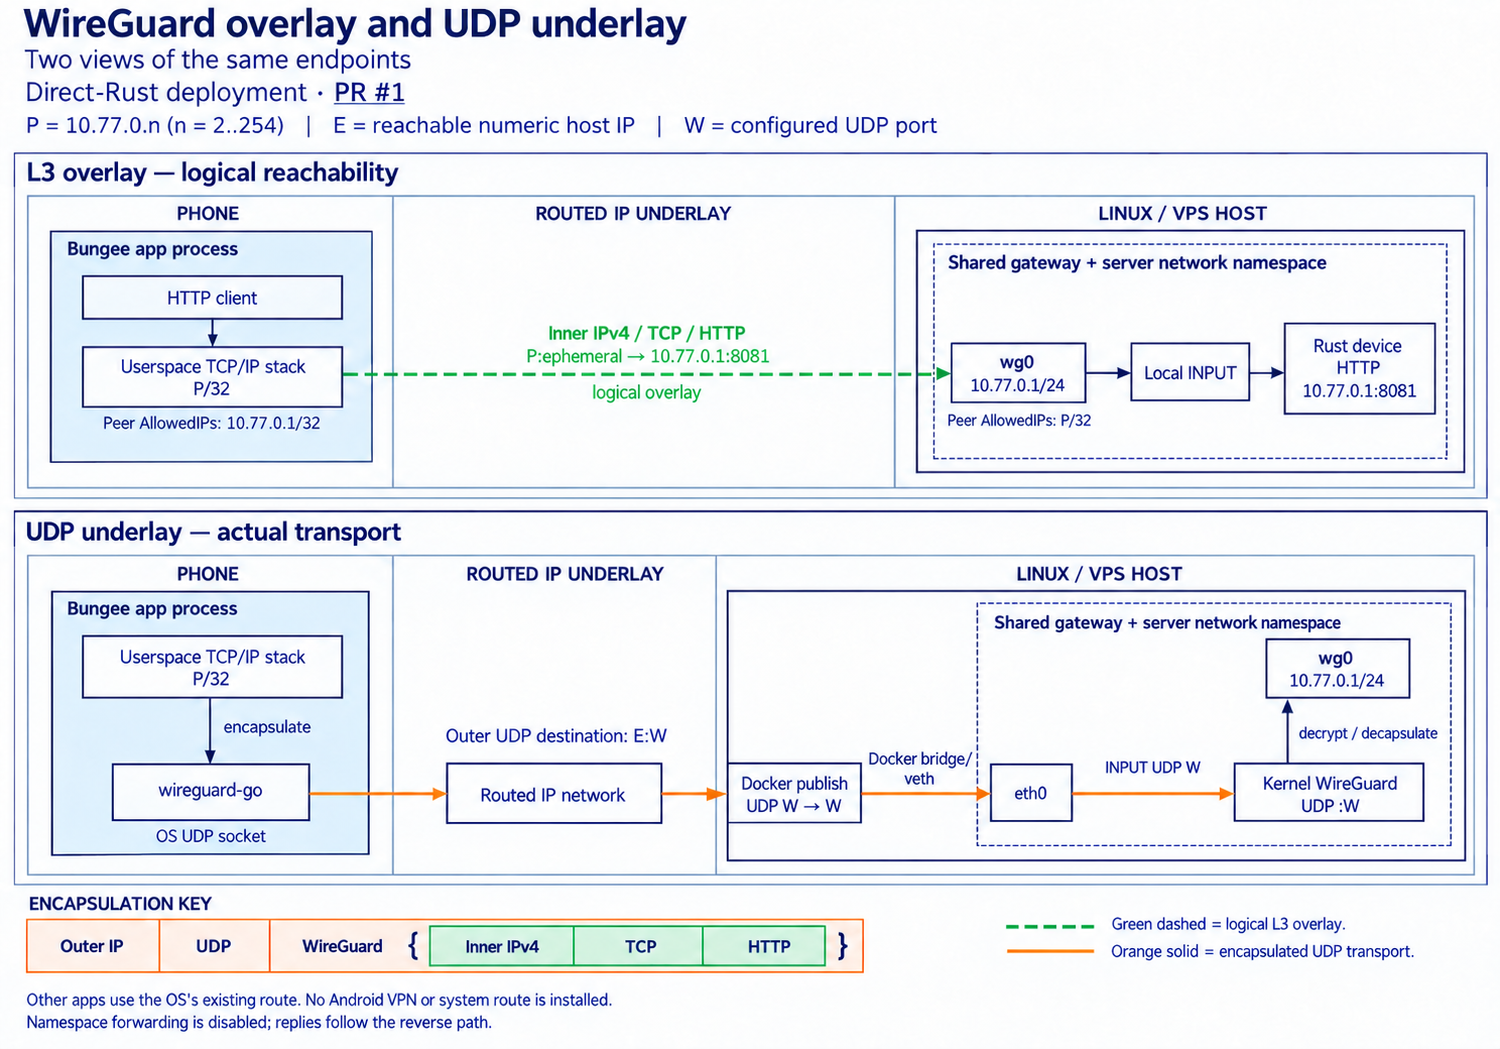
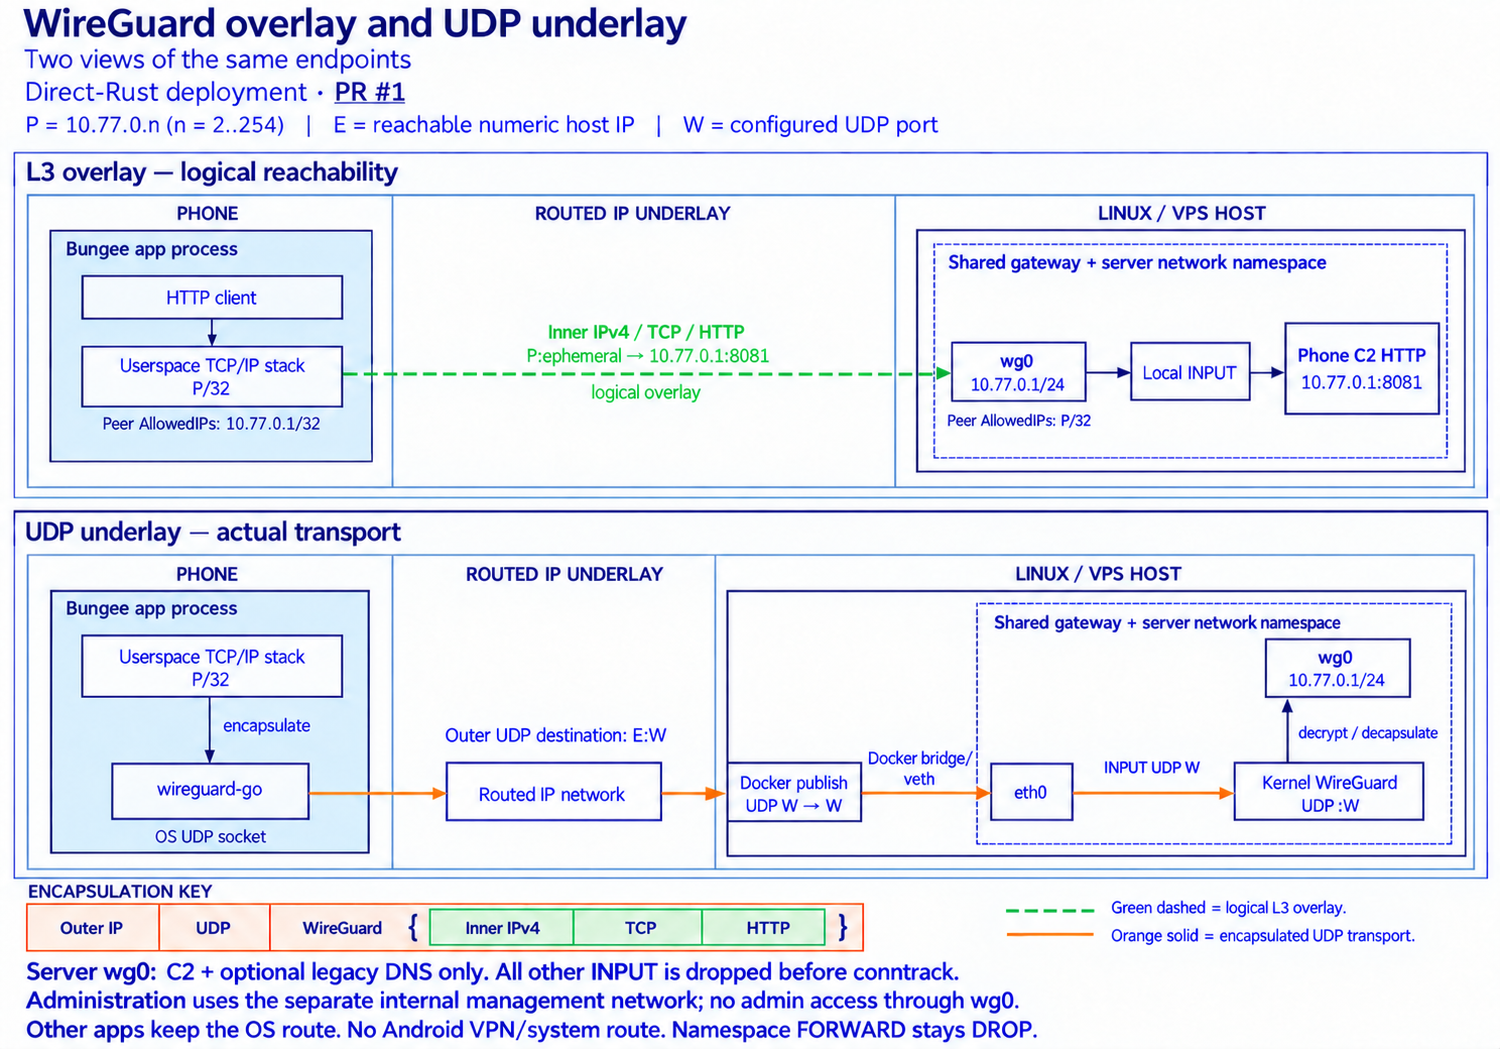
Show internal-only management and C2/DNS-only wg0 on live Security page

diff --git a/docs/NETWORK-TOPOLOGY.md b/docs/NETWORK-TOPOLOGY.md
@@ -1,8 +1,8 @@
 # Network topology and backend placement
 
-These notes describe the direct-Rust deployment implemented in [PR #1](https://github.com/argentumseven/bungee/pull/1), audited at commit [`17d6363`](https://github.com/argentumseven/bungee/commit/17d6363). They do not describe the released 1.1.4 Caddy deployment. The [Security page](SECURITY.md) contains the drawn topology pictures.
+These notes describe the direct-Rust deployment implemented in [PR #1](https://github.com/argentumseven/bungee/pull/1), audited at commit [`e5c6898`](https://github.com/argentumseven/bungee/commit/e5c68987784d985406832bc728c51e10c59760d9). They do not describe the released 1.1.4 Caddy deployment. The [Security page](SECURITY.md) contains the drawn topology pictures.
 
-The drawings use a directly reachable Linux/VPS host with Docker bridge networking and port publishing. An upstream home-router NAT, Docker IPv6 routing and userland-proxy variations are deployment-specific. They are not extra Bungee services. Bridge names and container addresses are allocated by Docker and are deliberately not invented in the drawings.
+The drawings use a Linux/VPS host with a reachable phone UDP endpoint, a separate internal management network, Docker bridge networking and port publishing. An upstream home-router NAT, Docker IPv6 routing and userland-proxy variations are deployment-specific. They are not extra Bungee services. Bridge names and container addresses are allocated by Docker and are deliberately not invented in the drawings.
 
 ## Address and port notation
 
@@ -11,7 +11,7 @@ The drawings use a directly reachable Linux/VPS host with Docker bridge networki
 | `P` | One phone's overlay address, `10.77.0.n`, where `n` is 2–254. The phone uses `P/32`. |
 | `E` | Numeric WireGuard endpoint IP reachable through the phone's existing OS network. In the drawn direct VPS deployment it is a host address. An operator's upstream NAT can make it differ from the local host address. |
 | `W` | Explicitly configured WireGuard UDP port. There is no default; 51820 is rejected. |
-| `B:H` | Configured host bind address and published HTTPS TCP port. The browser's exact HTTPS origin can use a hostname; it is independent of the phone's numeric WireGuard endpoint. |
+| `B:H` | Configured **internal management** host bind address and HTTPS TCP port; never a WAN publication. The browser's exact HTTPS origin can use a hostname; it is independent of the phone's numeric WireGuard endpoint. |
 | `C` | Dynamically assigned Docker-side address in the shared namespace. |
 | `R:D` | The single explicitly configured DNS resolver IP and port. The external-resolver path is drawn; the default resolver port is 53. |
 | `s`, `q` | Ephemeral source ports, not additional published ports. |
@@ -42,13 +42,29 @@ The gateway container's privileged manager installs firewall rules and configure
 
 | Service | Production bind | Backend function |
 | --- | --- | --- |
-| Administrator HTTPS | TCP `0.0.0.0:8443` | Rust terminates TLS 1.3 with X25519MLKEM768, serves the built React UI and `/api/*`, and enforces actual socket-source prefixes, sessions and exact-origin controls. |
+| Administrator HTTPS | TCP `0.0.0.0:8443`, **bound to interface `eth0`** | Rust terminates TLS 1.3 with X25519MLKEM768, serves the built React UI and `/api/*`, and enforces actual socket-source prefixes, sessions and exact-origin controls. |
 | Device HTTP | TCP `10.77.0.1:8081` | `/v1/*` handles enrollment, telemetry, command polling, acknowledgments and policy sync through the phone overlay. Responses carry commands; the server does not initiate a separate connection to a phone. |
 | Optional legacy DNS | UDP and TCP `10.77.0.1:5353` | A distinct DNS socket service in the same Rust process; not an HTTP route. Disabled without an explicit resolver. |
 
-For administration, Docker publishes `B:H → C:8443`. Packets pass through the namespace's INPUT source-prefix ACL before Rust terminates TLS and applies its own source ACL. There is no TLS-terminating intermediary or extra TCP connection in this path. Rust uses the TCP source it actually observes and ignores forwarding headers. Docker userland proxying, IPv6 configurations and host-local connections can alter the observed source; verify the chosen deployment path rather than assuming source preservation.
+For administration, Docker publishes only the host's internal management address `B:H → C:8443`. Packets must arrive through namespace `eth0` and pass its INPUT source-prefix ACL before Rust terminates TLS and applies its own source ACL. The TLS listener is constrained by Linux `SO_BINDTODEVICE=eth0` (`BUNGEE_ADMIN_INTERFACE`), so the wildcard IPv4 bind does not expose that listener on `wg0`. No administrator socket is reachable through the phone overlay, including packets addressed to the namespace's `eth0` IP. There is no TLS-terminating intermediary or extra TCP connection in this path. Rust uses the TCP source it actually observes and ignores forwarding headers. Docker userland proxying, IPv6 configurations and host-local connections can alter the observed source; verify the chosen deployment path rather than assuming source preservation.
 
 All Rust services share an `App` state with a local `rusqlite` connection protected by a mutex. SQLite, WAL/SHM transaction state, telemetry, history, photos, sessions and peer secrets are local files under the encrypted host mount. There is no separate database server or database TCP listener. The diagram's database line means file I/O, not a network hop. Static web files are in the server image at `/app/web`.
+
+## Management isolation
+
+The phone and management zones have different entry points. `wg0` is limited to C2 and optional DNS; management uses the host's configured internal address and actual internal source prefixes. It is not a second phone-overlay role.
+
+| Ingress | Admitted services | Excluded paths |
+| --- | --- | --- |
+| Phone `wg0`, IPv4 `10.77.0.0/24` | Local `10.77.0.1` TCP 8081 and, when enabled, UDP/TCP 5353 after redirect | Every other local INPUT packet is dropped before the established/related rule; no dashboard, administrator API, SSH or namespace-management access. IPv6 ingress on `wg0` is also dropped. |
+| Namespace `eth0`, operator-specified internal management sources | Administrator TCP 8443, after the source ACL | Sources in the phone subnet are explicitly rejected; forwarded identity headers cannot authorize a caller. |
+| Phone transit | None | Namespace FORWARD stays DROP; a phone cannot route through Bungee to host management or another network. |
+
+Host `bind_ip` must name a single internal management address or loopback, never a wildcard or phone-overlay address. The operator defines the internal routing zone using the bind address and explicit CIDRs; private/global address classification is not an authorization mechanism. Administrator CIDRs overlapping any of `10.77.0.0/24` are refused, including broad supernets such as `10.0.0.0/8`.
+
+The firewall first classifies `wg0`: C2 and configured DNS are accepted; everything else is dropped. Only then do the general conntrack and `eth0` administrator rules run. Rust separately binds its TLS socket to `eth0` and rejects all phone-subnet sources, even with a permissive in-memory ACL. A non-loopback standalone administrator bind requires `BUNGEE_ADMIN_INTERFACE`; selecting `wg0`, an unavailable interface or a kernel that refuses the binding fails startup. Rust still has zero Linux capabilities.
+
+On a VPS, provision an independent management/private route or separate host-to-site management tunnel if an internal route does not already exist. It must use a distinct interface/subnet from phone `wg0`. Keep host SSH and Docker management inside that zone too. Bungee does not reconfigure those host services. Match provider/host ingress policies to the management network and publish only the phone WireGuard UDP endpoint on the public side.
 
 ## Peer control and storage planes
 
@@ -79,7 +95,7 @@ This path applies only to eligible, consenting legacy peers with the required ap
 
 UDP truncation retries TCP to the **same** resolver. There is no fallback resolver, recursive route to a provider or forwarding of the original phone packet. An empty resolver setting disables the listener and egress exception. Docker DNS `127.0.0.11` is blocked.
 
-A private home resolver on a VPS requires a **separate operator-managed host-to-home routed tunnel** or private network, with a distinct, non-overlapping subnet/interface from Bungee's `wg0`. Route the resolver's `/32` or `/128` through it, admit only the required UDP/TCP DNS port on the home side, and supply a return route or narrowly scoped SNAT. Home can initiate the tunnel with keepalive when behind NAT. This additional tunnel is not created by configuring `R:D` and is not part of the phone overlay. See [deployment routing requirements](https://github.com/argentumseven/bungee/blob/17d6363/docs/DEPLOYMENT.md#vps-and-private-home-dns).
+A private home resolver on a VPS requires a **separate operator-managed host-to-home routed tunnel** or private network, with a distinct, non-overlapping subnet/interface from Bungee's `wg0`. Route the resolver's `/32` or `/128` through it, admit only the required UDP/TCP DNS port on the home side, and supply a return route or narrowly scoped SNAT. Home can initiate the tunnel with keepalive when behind NAT. This additional tunnel is not created by configuring `R:D` and is not part of the phone overlay. See [deployment routing requirements](https://github.com/argentumseven/bungee/blob/e5c68987784d985406832bc728c51e10c59760d9/docs/DEPLOYMENT.md#vps-and-private-home-dns).
 
 ## Forwarding scope
 
@@ -91,8 +107,9 @@ Host Docker bridge forwarding, port DNAT and resolver/S2S routing are distinct h
 
 These links pin the audited implementation so this document remains checkable while the default branch still contains release 1.1.4:
 
-- [Generated runtime Compose and bind mounts](https://github.com/argentumseven/bungee/blob/17d6363/scripts/bungee-host.py#L113); [reference Compose](https://github.com/argentumseven/bungee/blob/17d6363/compose.yaml).
-- [Kernel interface, firewall chains, DNS redirect and peer refresh](https://github.com/argentumseven/bungee/blob/17d6363/deploy/wireguard/entrypoint.sh).
-- [Phone userspace stack, AllowedIPs, UDP endpoint and fixed HTTP dialer](https://github.com/argentumseven/bungee/blob/17d6363/native/transport/transport.go); [Android tunnel validation](https://github.com/argentumseven/bungee/blob/17d6363/android/app/src/main/java/org/bungee/app/HomeTunnel.kt).
-- [Rust shared App state, routers and listener creation](https://github.com/argentumseven/bungee/blob/17d6363/server/src/main.rs); [socket-source enforcement](https://github.com/argentumseven/bungee/blob/17d6363/server/src/security.rs).
-- [Peer-file publication](https://github.com/argentumseven/bungee/blob/17d6363/server/src/enrollment.rs); [DNS sockets and upstream exchange](https://github.com/argentumseven/bungee/blob/17d6363/server/src/dns.rs); [SQLite/WAL initialization](https://github.com/argentumseven/bungee/blob/17d6363/server/src/store.rs).
+- [Generated runtime Compose and bind mounts](https://github.com/argentumseven/bungee/blob/e5c68987784d985406832bc728c51e10c59760d9/scripts/bungee-host.py#L113); [reference Compose](https://github.com/argentumseven/bungee/blob/e5c68987784d985406832bc728c51e10c59760d9/compose.yaml).
+- [Kernel interface, firewall chains, DNS redirect and peer refresh](https://github.com/argentumseven/bungee/blob/e5c68987784d985406832bc728c51e10c59760d9/deploy/wireguard/entrypoint.sh).
+- [Phone userspace stack, AllowedIPs, UDP endpoint and fixed HTTP dialer](https://github.com/argentumseven/bungee/blob/e5c68987784d985406832bc728c51e10c59760d9/native/transport/transport.go); [Android tunnel validation](https://github.com/argentumseven/bungee/blob/e5c68987784d985406832bc728c51e10c59760d9/android/app/src/main/java/org/bungee/app/HomeTunnel.kt).
+- [Rust shared App state, routers and listener creation](https://github.com/argentumseven/bungee/blob/e5c68987784d985406832bc728c51e10c59760d9/server/src/main.rs); [socket-source enforcement](https://github.com/argentumseven/bungee/blob/e5c68987784d985406832bc728c51e10c59760d9/server/src/security.rs).
+- [Interface-bound TLS listener](https://github.com/argentumseven/bungee/blob/e5c68987784d985406832bc728c51e10c59760d9/server/src/tls.rs); [management isolation fixture](https://github.com/argentumseven/bungee/blob/e5c68987784d985406832bc728c51e10c59760d9/scripts/check-management-isolation.mjs).
+- [Peer-file publication](https://github.com/argentumseven/bungee/blob/e5c68987784d985406832bc728c51e10c59760d9/server/src/enrollment.rs); [DNS sockets and upstream exchange](https://github.com/argentumseven/bungee/blob/e5c68987784d985406832bc728c51e10c59760d9/server/src/dns.rs); [SQLite/WAL initialization](https://github.com/argentumseven/bungee/blob/e5c68987784d985406832bc728c51e10c59760d9/server/src/store.rs).

diff --git a/docs/SECURITY.md b/docs/SECURITY.md
@@ -16,19 +16,19 @@ The [validation record](VALIDATION.md) identifies tested behavior and outstandin
 
 The first drawing separates logical L3 reachability from the UDP transport carrying it. Its two panels show the same endpoints. `P` is one phone's `10.77.0.n` address, `E` is the reachable numeric WireGuard endpoint IP, and `W` is the configured UDP port. The green dashed path is the inner overlay, not a second physical link.
 
-[![WireGuard overlay and UDP underlay: phone userspace stack, inner IPv4/TCP addressing, host Docker publication, shared namespace eth0, kernel WireGuard decapsulation, wg0 and local INPUT to Rust.](https://github.com/argentumseven/bungee/blob/f6bdb8e3e28ae92fb569d2559bd794a976c65b17/docs/images/security-architecture.png?raw=true)](https://github.com/argentumseven/bungee/blob/f6bdb8e3e28ae92fb569d2559bd794a976c65b17/docs/images/security-architecture.png)
+[![WireGuard overlay and UDP underlay: phone userspace stack, inner IPv4/TCP addressing, host Docker publication, shared namespace eth0, kernel WireGuard decapsulation, wg0 and local INPUT to Rust.](https://github.com/argentumseven/bungee/blob/b1e8297338aa51b8a7a0995a774c62298bd8330e/docs/images/security-architecture.png?raw=true)](https://github.com/argentumseven/bungee/blob/b1e8297338aa51b8a7a0995a774c62298bd8330e/docs/images/security-architecture.png)
 
-[Open the full-size overlay and underlay drawing](https://github.com/argentumseven/bungee/blob/f6bdb8e3e28ae92fb569d2559bd794a976c65b17/docs/images/security-architecture.png).
+[Open the full-size overlay and underlay drawing](https://github.com/argentumseven/bungee/blob/b1e8297338aa51b8a7a0995a774c62298bd8330e/docs/images/security-architecture.png).
 
 The phone's address belongs to its app-contained userspace TCP/IP stack. The outer UDP flow enters the host's Docker port publication, crosses the bridge/veth into `eth0`, and reaches kernel WireGuard. After decapsulation, `wg0` delivers the inner TCP connection locally to `10.77.0.1:8081` through INPUT. It does not traverse the namespace's FORWARD chain or another container network. The phone peer has `AllowedIPs=10.77.0.1/32`; the server peer has `AllowedIPs=P/32`.
 
 ### Backend placement
 
-[![Backend placement: two containers in one network namespace, one Rust process with separate HTTPS, device HTTP and optional DNS sockets, local SQLite file I/O and shared peer configuration.](https://github.com/argentumseven/bungee/blob/f6bdb8e3e28ae92fb569d2559bd794a976c65b17/docs/images/backend-topology.png?raw=true)](https://github.com/argentumseven/bungee/blob/f6bdb8e3e28ae92fb569d2559bd794a976c65b17/docs/images/backend-topology.png)
+[![Backend placement: two containers in one network namespace, one Rust process with separate HTTPS, device HTTP and optional DNS sockets, local SQLite file I/O and shared peer configuration.](https://github.com/argentumseven/bungee/blob/b1e8297338aa51b8a7a0995a774c62298bd8330e/docs/images/backend-topology.png?raw=true)](https://github.com/argentumseven/bungee/blob/b1e8297338aa51b8a7a0995a774c62298bd8330e/docs/images/backend-topology.png)
 
-[Open the full-size backend drawing](https://github.com/argentumseven/bungee/blob/f6bdb8e3e28ae92fb569d2559bd794a976c65b17/docs/images/backend-topology.png).
+[Open the full-size backend drawing](https://github.com/argentumseven/bungee/blob/b1e8297338aa51b8a7a0995a774c62298bd8330e/docs/images/backend-topology.png).
 
-The gateway and server are separate containers sharing one network namespace. Its WireGuard device is a kernel network object; the gateway manager configures it. One Rust process serves administrator HTTPS, the device HTTP API and optional DNS, with shared application state and local SQLite/WAL file I/O. Dotted black lines show peer-configuration files and `wg syncconf`, not network hops. Administrator TLS terminates in Rust after host port publication and the namespace's source-prefix ACL.
+The gateway and server are separate containers sharing one network namespace. Its WireGuard device is a kernel network object; the gateway manager configures it. One Rust process serves administrator HTTPS, the device HTTP API and optional DNS, with shared application state and local SQLite/WAL file I/O. Dotted black lines show peer-configuration files and `wg syncconf`, not network hops. Administrator TLS uses only the host's internal management IP and namespace `eth0`: INPUT admits configured internal source prefixes and Rust constrains the TLS socket with `SO_BINDTODEVICE=eth0`. Every other `wg0` INPUT path is dropped before conntrack; phone-overlay sources are also rejected independently in Rust. Administrator CIDRs cannot overlap the phone subnet. Phones cannot reach administration by targeting either `wg0` or the namespace's `eth0` IP.
 
 Optional DNS redirects eligible legacy peers' UDP/TCP port 53 locally to Rust port 5353. Rust opens a new connection to the configured resolver; it does not forward the original phone packet. New personal enrollment does not enable this path. A private home resolver requires a separately provisioned host-to-home route. Namespace forwarding stays disabled; host Docker forwarding/NAT is a separate scope.
 

diff --git a/docs/images/README.md b/docs/images/README.md
@@ -3,7 +3,7 @@
 These are drawn raster PNG pictures with fixed geometry and technical labels. No live Mermaid renderer or automatic box layout is required.
 
 - `security-architecture.png` separates the logical WireGuard L3 overlay from its routed UDP underlay, including phone userspace addressing, host Docker publication, shared-namespace `eth0`/`wg0`, encapsulation and local INPUT delivery.
-- `backend-topology.png` shows the shared network namespace, distinct gateway/server containers, kernel WireGuard, one Rust process, its three socket services, SQLite file I/O and the peer-configuration control plane.
+- `backend-topology.png` shows the shared network namespace, distinct gateway/server containers, kernel WireGuard, one Rust process, its three socket services, SQLite file I/O and the peer-configuration control plane. Management arrives only from the internal network through `eth0`; the Rust TLS socket is interface-bound. Phone `wg0` admits C2 and optional DNS only, with all other local ingress dropped before conntrack.
 - `storage-lifecycle.png` shows host-key unlock, cold encrypted backups and authenticated restore with separate host keys.
 
 The [topology reference](../NETWORK-TOPOLOGY.md) records the address/port notation, forwarding scope, connection and mount tables, omissions and pinned implementation sources. It distinguishes optional legacy DNS from the current personal app's fixed HTTP transport.
